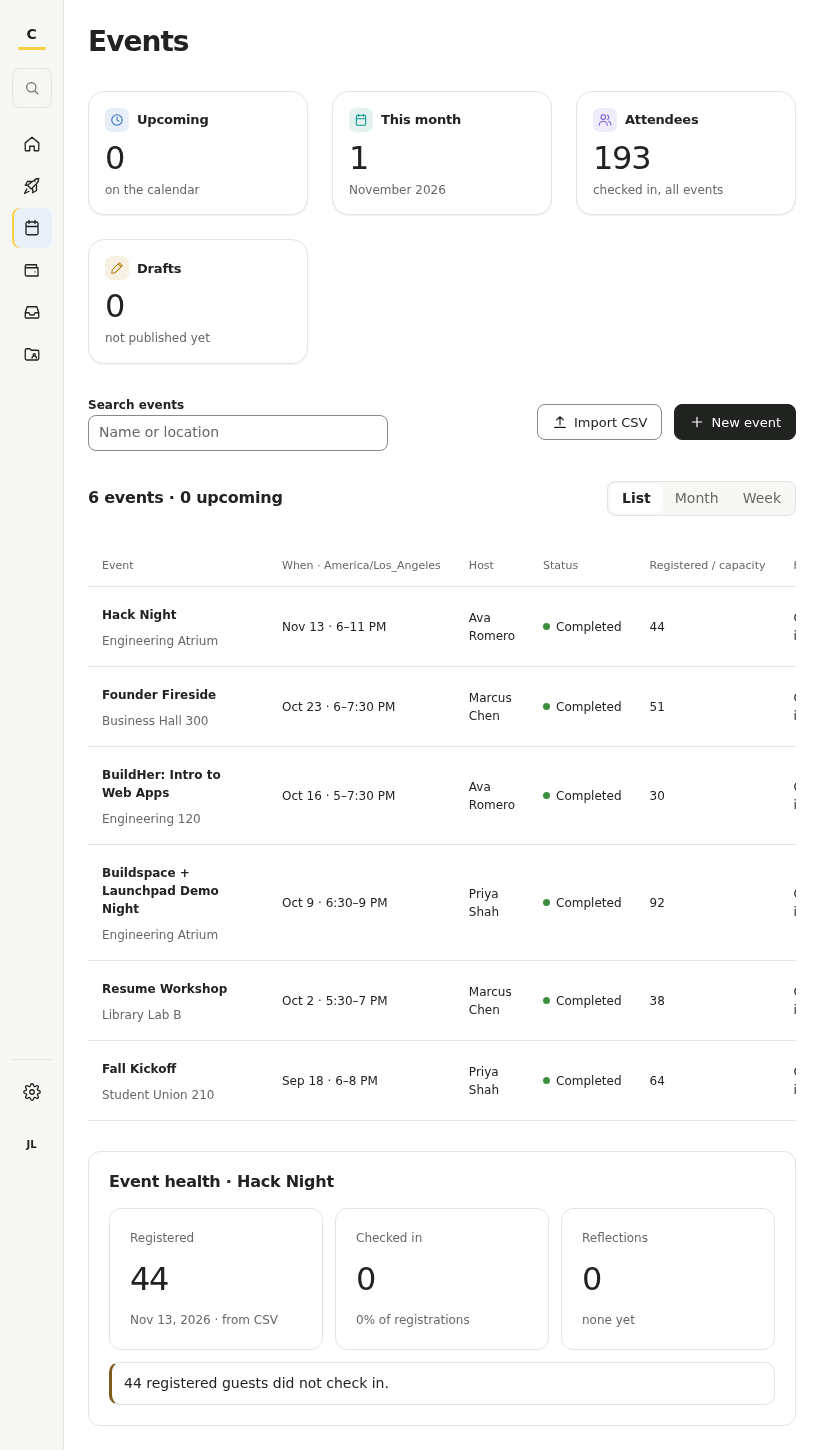
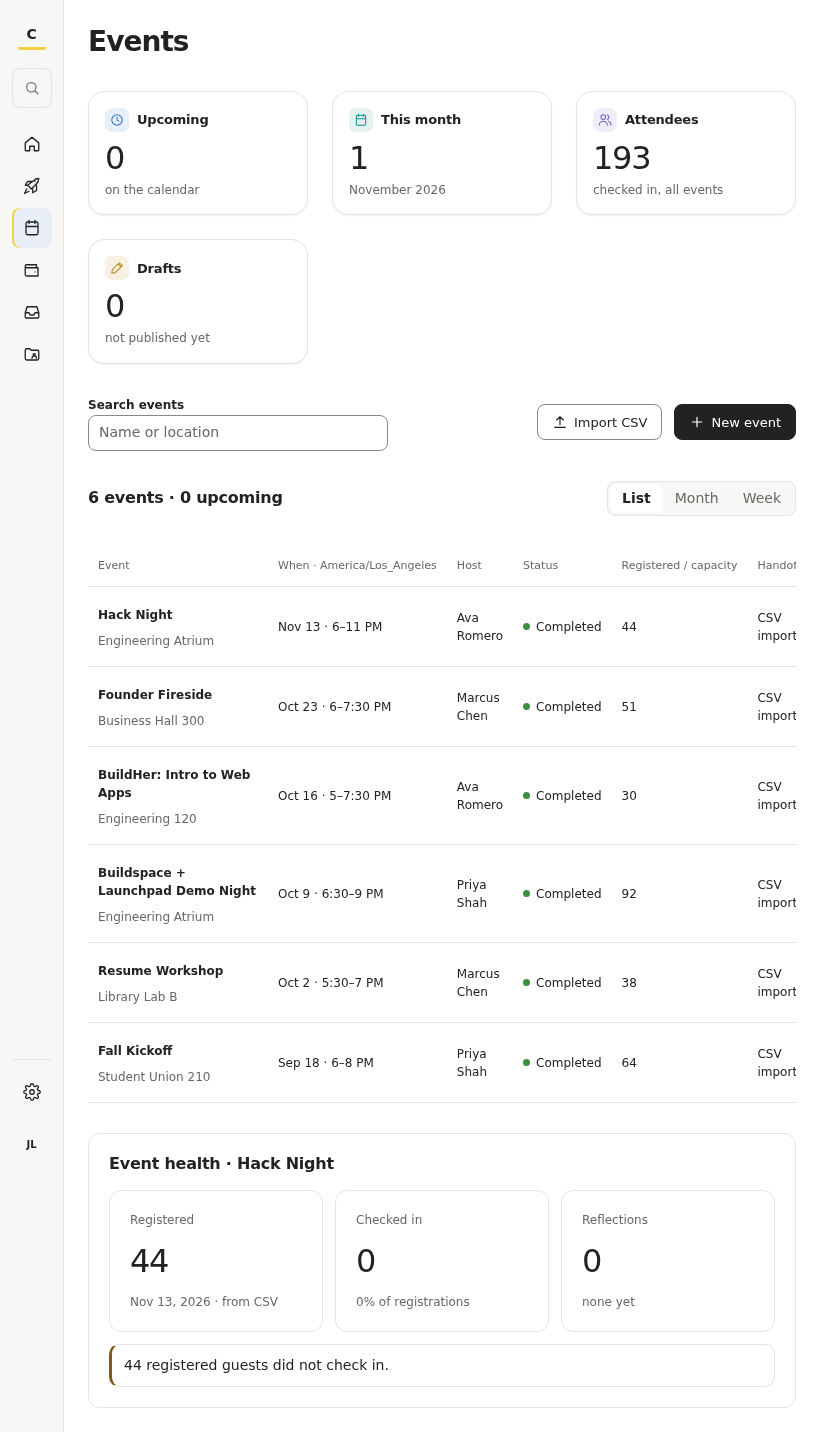
V0.11 review fixes: Finance fits at tablet, focusable table regions, phone title gap, sticky header

diff --git a/web/src/ui/components/kit.tsx b/web/src/ui/components/kit.tsx
@@ -166,6 +166,8 @@ export interface Column<T> {
   primary?: boolean;
   /** Hide on phones. */
   hideOnPhone?: boolean;
+  /** Hide on tablets and phones (Buildspace-style tables only). */
+  hideOnTablet?: boolean;
   /** Plain-text label for the phone card (defaults to label when it is a string). */
   cardLabel?: string;
 }
@@ -199,13 +201,13 @@ export function DataTable<T>({
   bs?: boolean;
 }) {
   return (
-    <div class={bs ? 'table-wrap bs-wrap' : 'table-wrap'}>
+    <div class={bs ? 'table-wrap bs-wrap' : 'table-wrap'} {...(bs ? { tabIndex: 0, role: 'region', 'aria-label': caption ?? 'Table' } : {})}>
       <table class={bs ? 'bs-table' : `dt${dense ? ' dt--dense' : ''}${wide ? ' dt--wide' : ''}`}>
         {caption && <caption class={showCaption ? 'dt-caption' : 'visually-hidden'}>{caption}</caption>}
         <thead>
           <tr>
             {columns.map((c) => (
-              <th key={c.key} scope="col" class={c.num ? 'num' : undefined}>
+              <th key={c.key} scope="col" class={[c.num ? 'num' : '', bs && c.hideOnTablet ? 'bs-hide-tablet' : ''].filter(Boolean).join(' ') || undefined}>
                 {c.label}
               </th>
             ))}
@@ -217,7 +219,7 @@ export function DataTable<T>({
               {columns.map((c) => (
                 <td
                   key={c.key}
-                  class={[c.num ? 'num' : '', c.primary ? 'dt-primary' : '', c.hideOnPhone ? (bs ? 'bs-hide-phone' : 'dt-hide-phone') : ''].filter(Boolean).join(' ') || undefined}
+                  class={[c.num ? 'num' : '', c.primary ? 'dt-primary' : '', c.hideOnPhone ? (bs ? 'bs-hide-phone' : 'dt-hide-phone') : '', bs && c.hideOnTablet ? 'bs-hide-tablet' : ''].filter(Boolean).join(' ') || undefined}
                   data-label={c.cardLabel ?? (typeof c.label === 'string' ? c.label : '')}
                 >
                   {c.render(row)}

diff --git a/web/src/styles/bs-table.css b/web/src/styles/bs-table.css
@@ -17,6 +17,10 @@
   border-collapse: collapse;
 }
 .bs-table th {
+  position: sticky;
+  top: 0;
+  z-index: 1;
+  background: var(--surface);
   font-size: 11px;
   color: var(--muted);
   font-weight: 500;
@@ -62,6 +66,16 @@
   margin-top: 5px;
   font-size: 12px;
   color: var(--muted);
+}
+@media (max-width: 1099px) {
+  .bs-table th,
+  .bs-table td {
+    padding-left: 10px;
+    padding-right: 10px;
+  }
+  .bs-table .bs-hide-tablet {
+    display: none;
+  }
 }
 @media (max-width: 600px) {
   .bs-table thead {
@@ -112,8 +126,12 @@
   .bs-table td .bs-sub {
     margin: 3px 0;
   }
-  .bs-table td .bs-title,
+  .bs-table td .bs-title {
+    min-height: 44px;
+  }
   .bs-table td .cell-title {
+    display: flex;
+    align-items: center;
     min-height: 44px;
   }
 }

diff --git a/web/src/ui/views/columns.tsx b/web/src/ui/views/columns.tsx
@@ -81,7 +81,7 @@ export const requestColumns = (opts: { showRequester?: boolean; compact?: boolea
   ...(opts.showRequester === false ? [] : [{ key: 'who', label: 'requester', render: (r: PurchaseRequestListItem) => r.requester.name }]),
   ...(opts.compact
     ? []
-    : [{ key: 'cat', label: 'category · fund', hideOnPhone: true, render: (r: PurchaseRequestListItem) => <span class="small cat-name">
+    : [{ key: 'cat', label: 'category · fund', hideOnPhone: true, hideOnTablet: true, render: (r: PurchaseRequestListItem) => <span class="small cat-name">
             <CategoryDot code={r.expenseAccount.code} />
             {r.expenseAccount.name} · {r.fund.code}
           </span> }]),

diff --git a/web/src/ui/views/BuildspaceView.tsx b/web/src/ui/views/BuildspaceView.tsx
@@ -1,4 +1,3 @@
-import "../../styles/bs-table.css";
 import { PersonDrawer, usePersonParam } from "../components/PersonDrawer";
 import { useRef, useState } from "preact/hooks";
 import {
